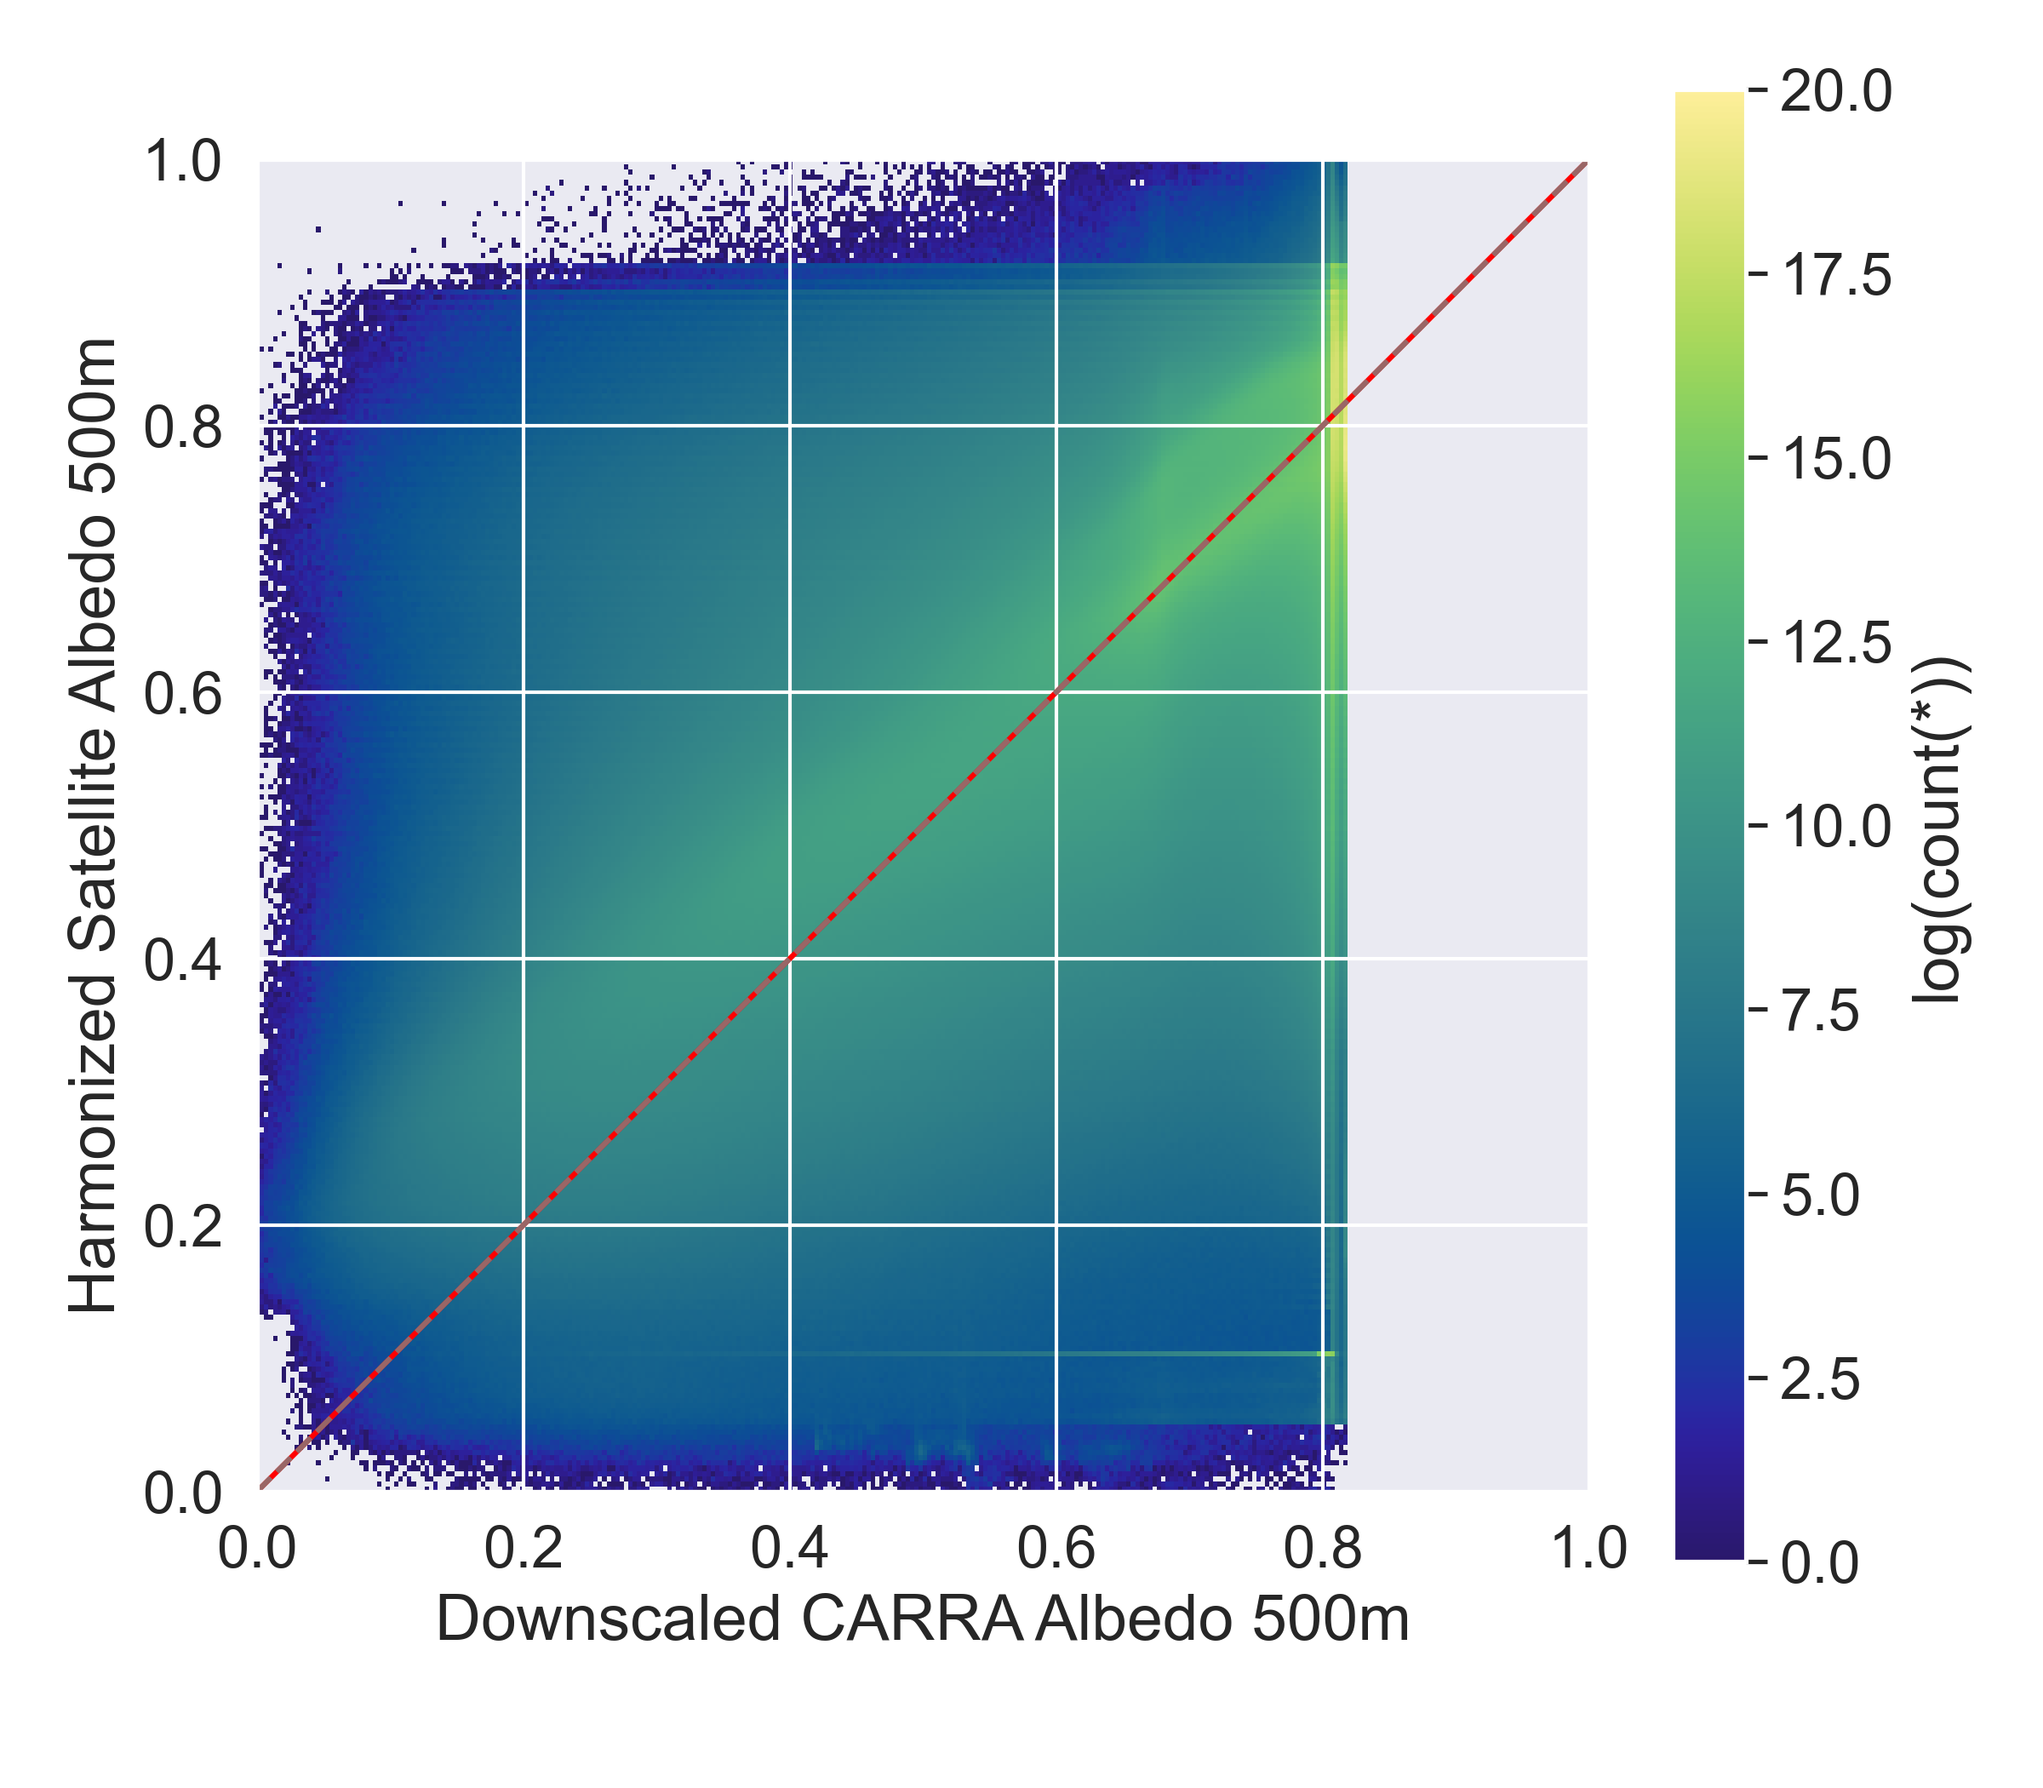
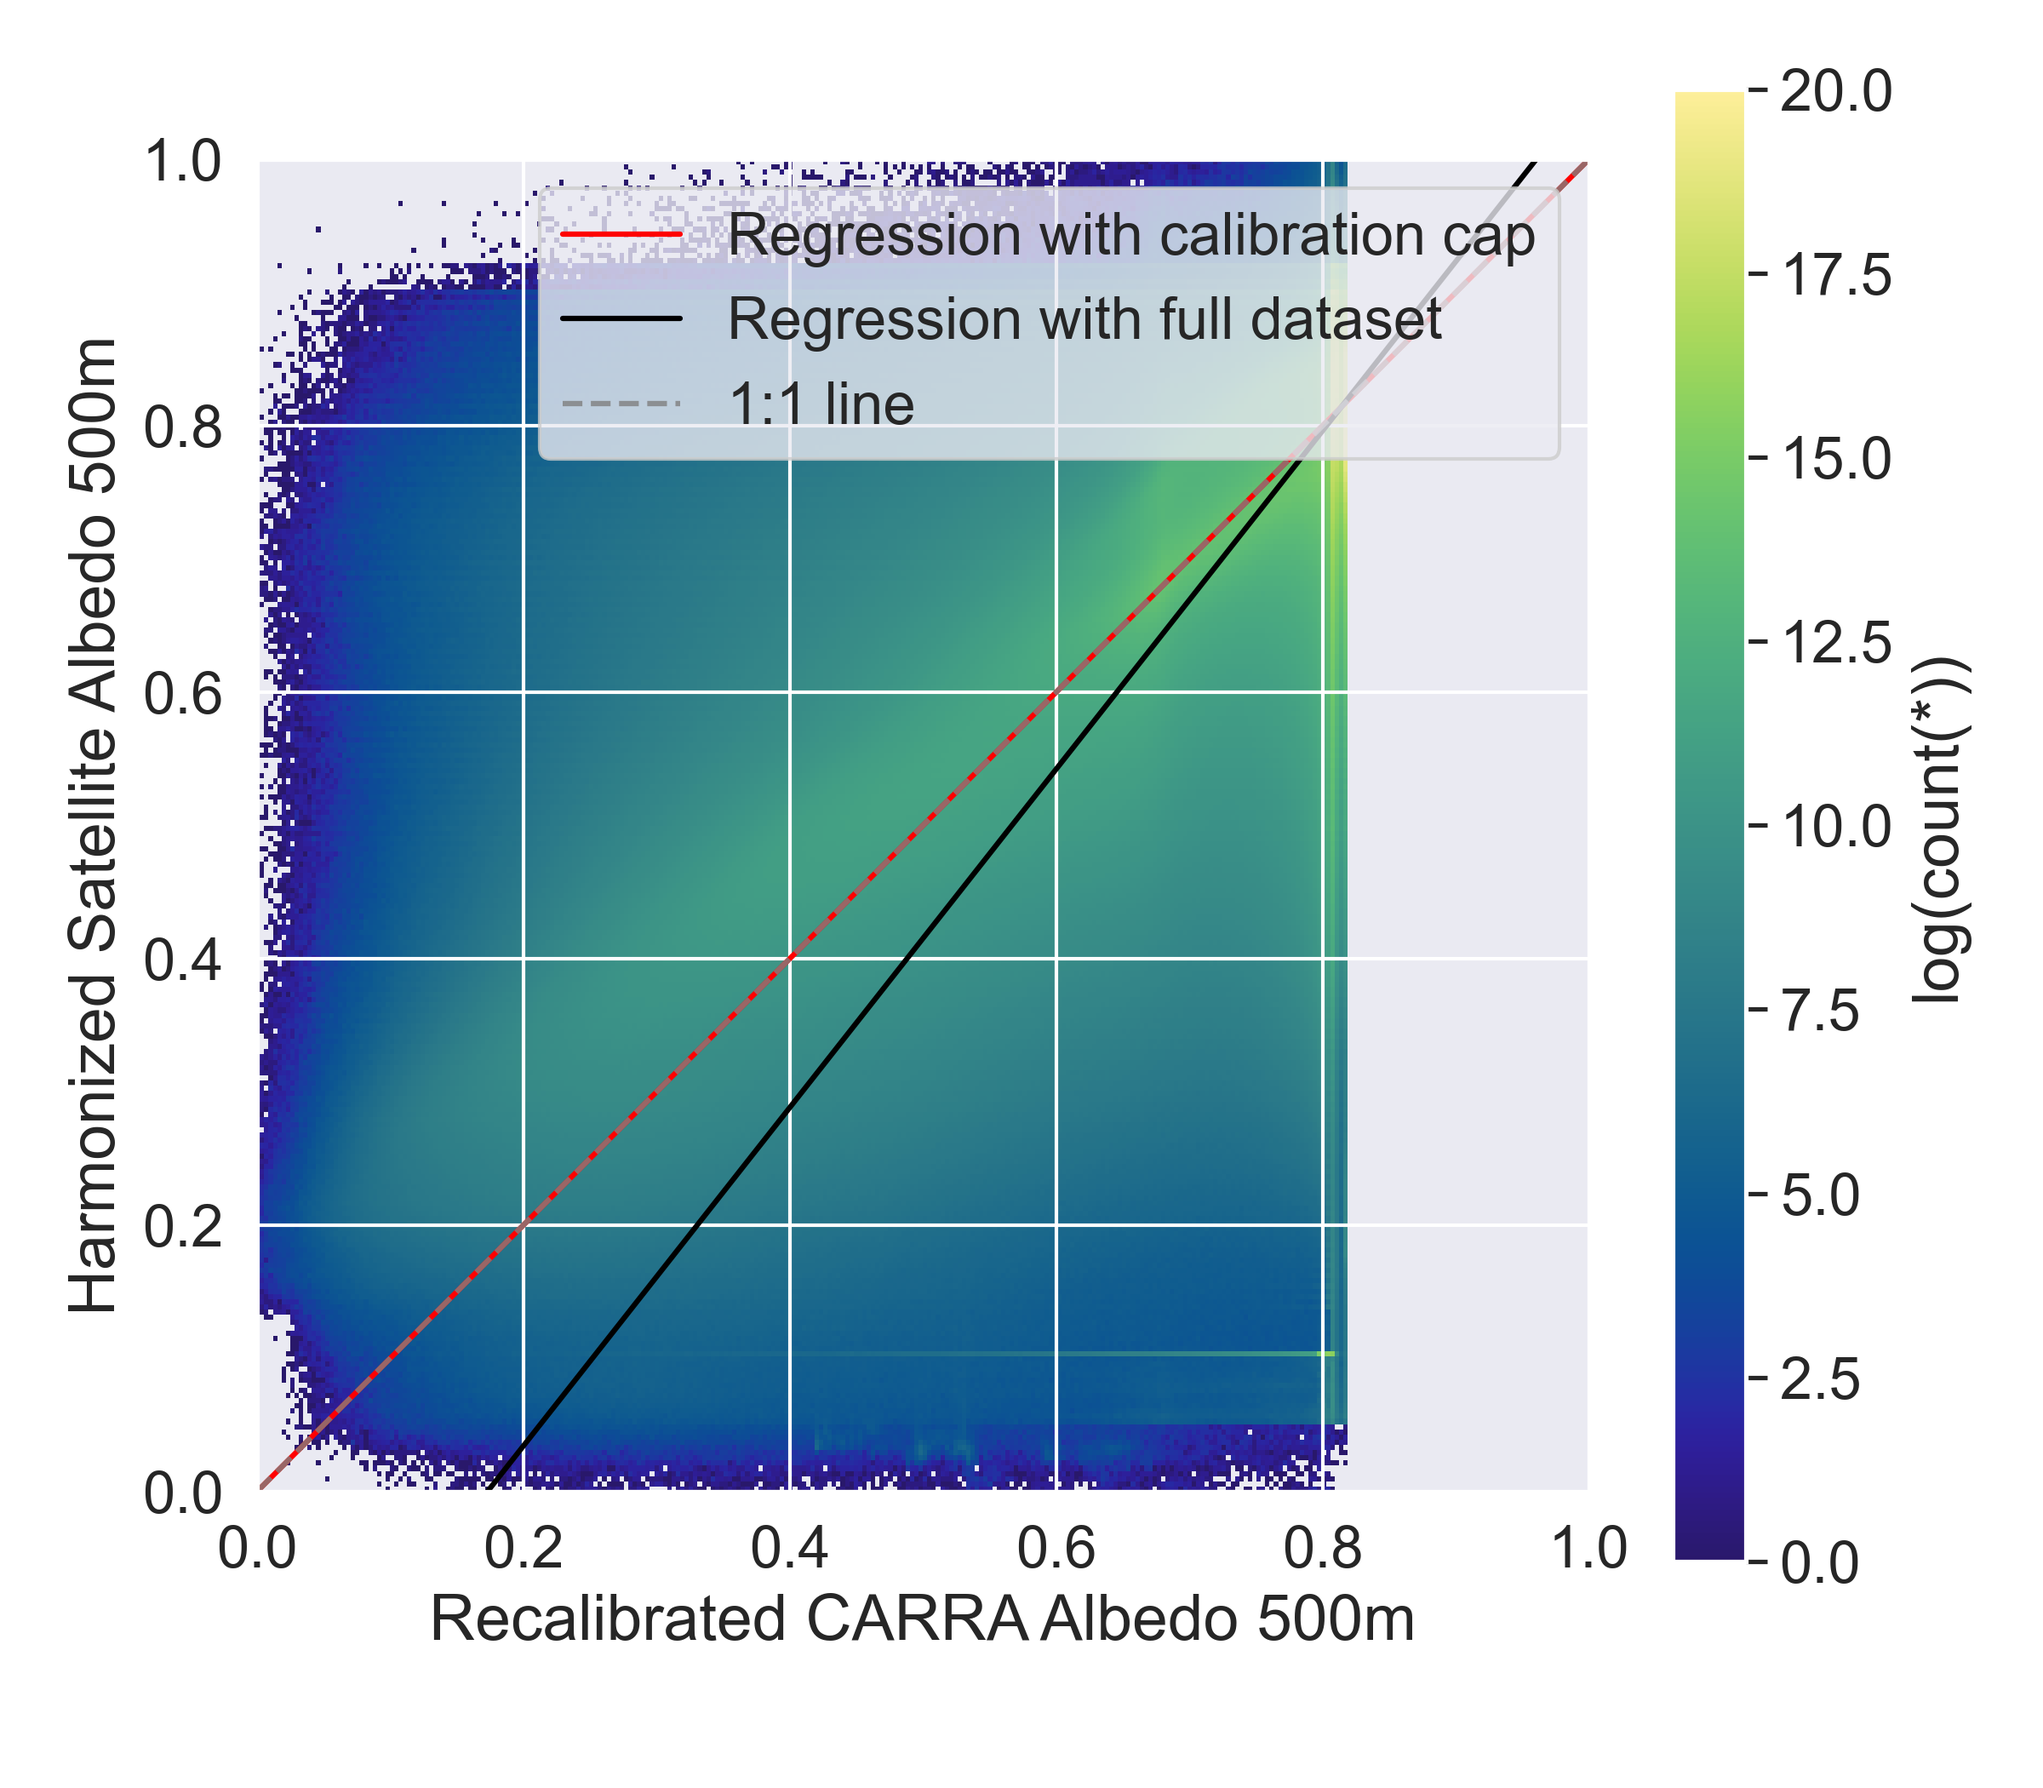
update carra calibration fig

diff --git a/src/data_production/carra_calibration_coef.py b/src/data_production/carra_calibration_coef.py
@@ -180,10 +180,25 @@ print(f"Number of points used in regression: {df.count(selection=validation_sele
 print(f"Number of points in full dataset: {df.count():,}")
 print(results)
 
+results_with_full_selection = linregress_vaex(
+    df,
+    "carra_calibrated",
+    "hsa500m",
+    selection=None,  # No selection, use all data points
+    method=REGRESSION_METHOD,
+)
+print("\nRegression results with full selection (no calibration cap):")
+print(f"slope: {results_with_full_selection.slope}")
+print(f"intercept: {results_with_full_selection.intercept}")
+print(f"r2: {results_with_full_selection.rvalue**2}")
+print(f"p-value: {results_with_full_selection.pvalue}") 
+print(f"Number of points used in regression: {df.count():,}")
+print(results_with_full_selection)
 
 # %%
 fig, ax = plt.subplots(figsize=(8,7))
-ax.plot(np.array([0,1]), results.slope * np.array([0,1]) + results.intercept, color='red') # ols regression etm+ vs oli
+ax.plot(np.array([0,1]), results.slope * np.array([0,1]) + results.intercept, color='red', label='Regression with calibration cap') # rma regression
+ax.plot(np.array([0,1]), results_with_full_selection.slope * np.array([0,1]) + results_with_full_selection.intercept, color='black', label='Regression with full dataset') # rma regression with full selection
 ax.plot([0, 1], [0, 1], '--', color='gray', alpha=0.8, label='1:1 line')
 ax.set_xlim(0, 1)
 ax.set_ylim(0, 1)
@@ -196,7 +211,8 @@ df.viz.heatmap(
     colormap = cm.cm.haline
     )
 ax.set_aspect('equal')
-ax.set(xlabel="Downscaled CARRA Albedo 500m", ylabel="Harmonized Satellite Albedo 500m")
+ax.set(xlabel="Recalibrated CARRA Albedo 500m", ylabel="Harmonized Satellite Albedo 500m")
+ax.legend()
 fig.savefig("/data/shunan/github/Harmonized-Albedo-for-the-Greenland-Ice-Sheet-at-500m/print/carra_hsa_calibration_testing.png", dpi=300)
 # close figure after saved
 # plt.close(fig)
